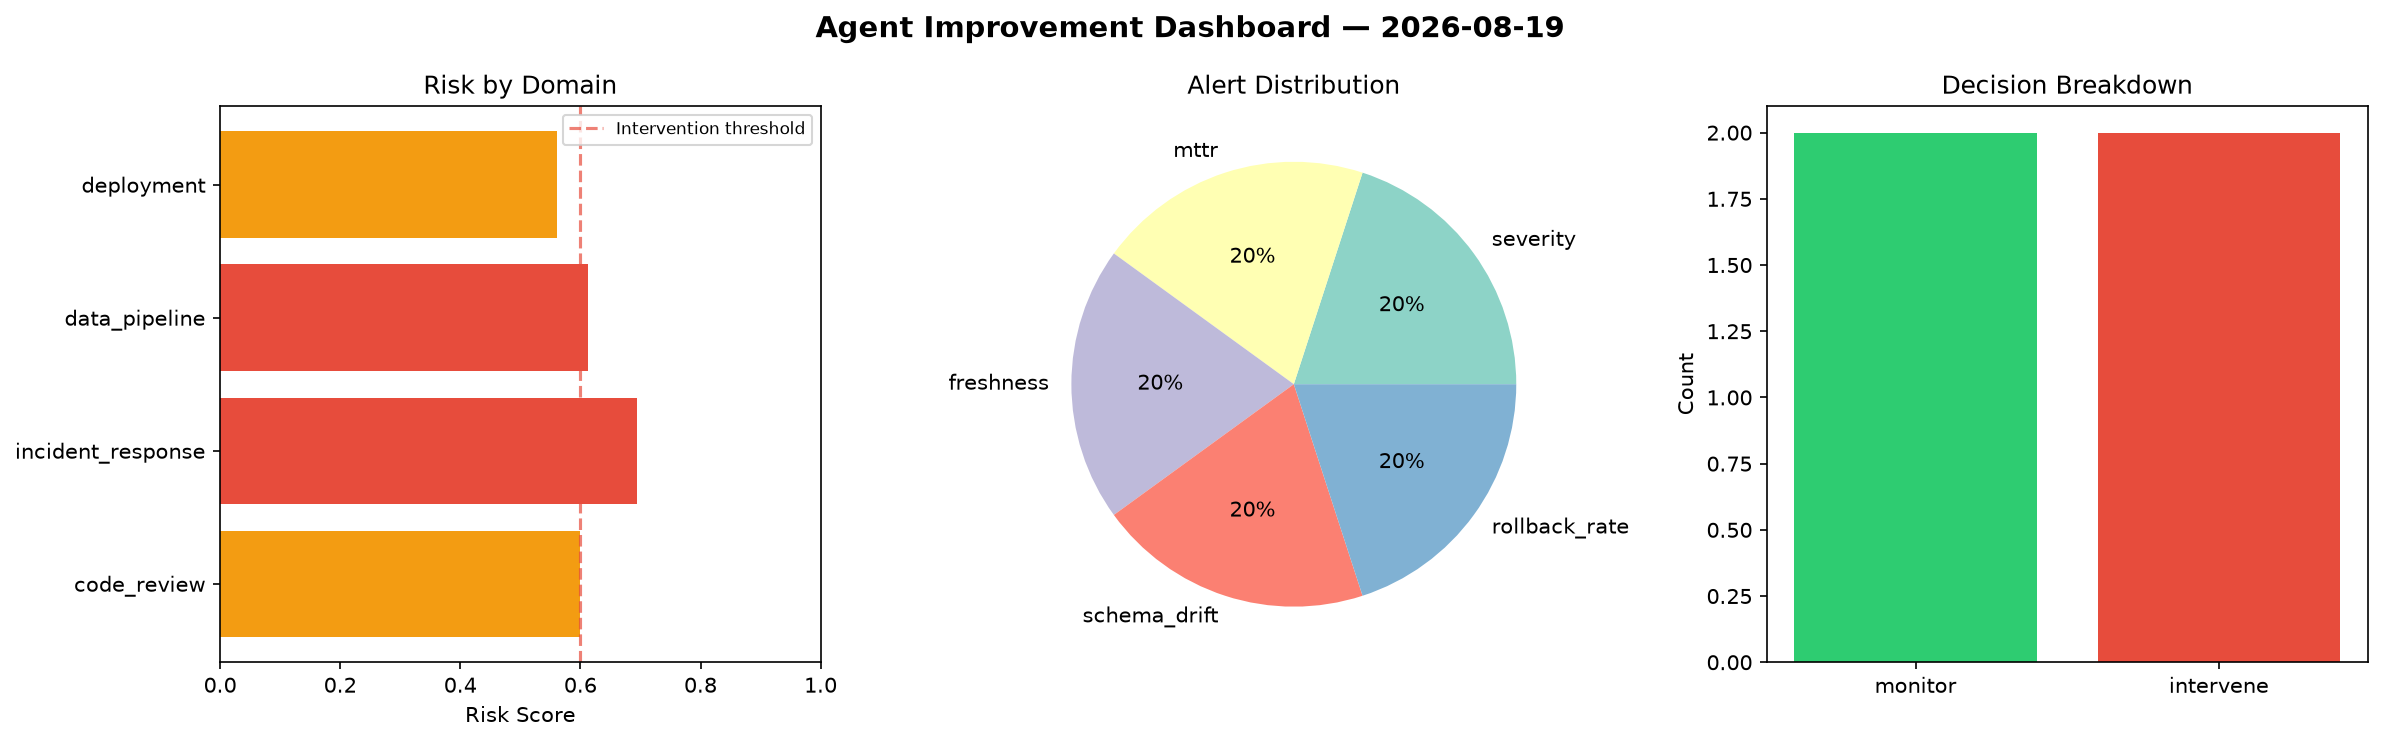
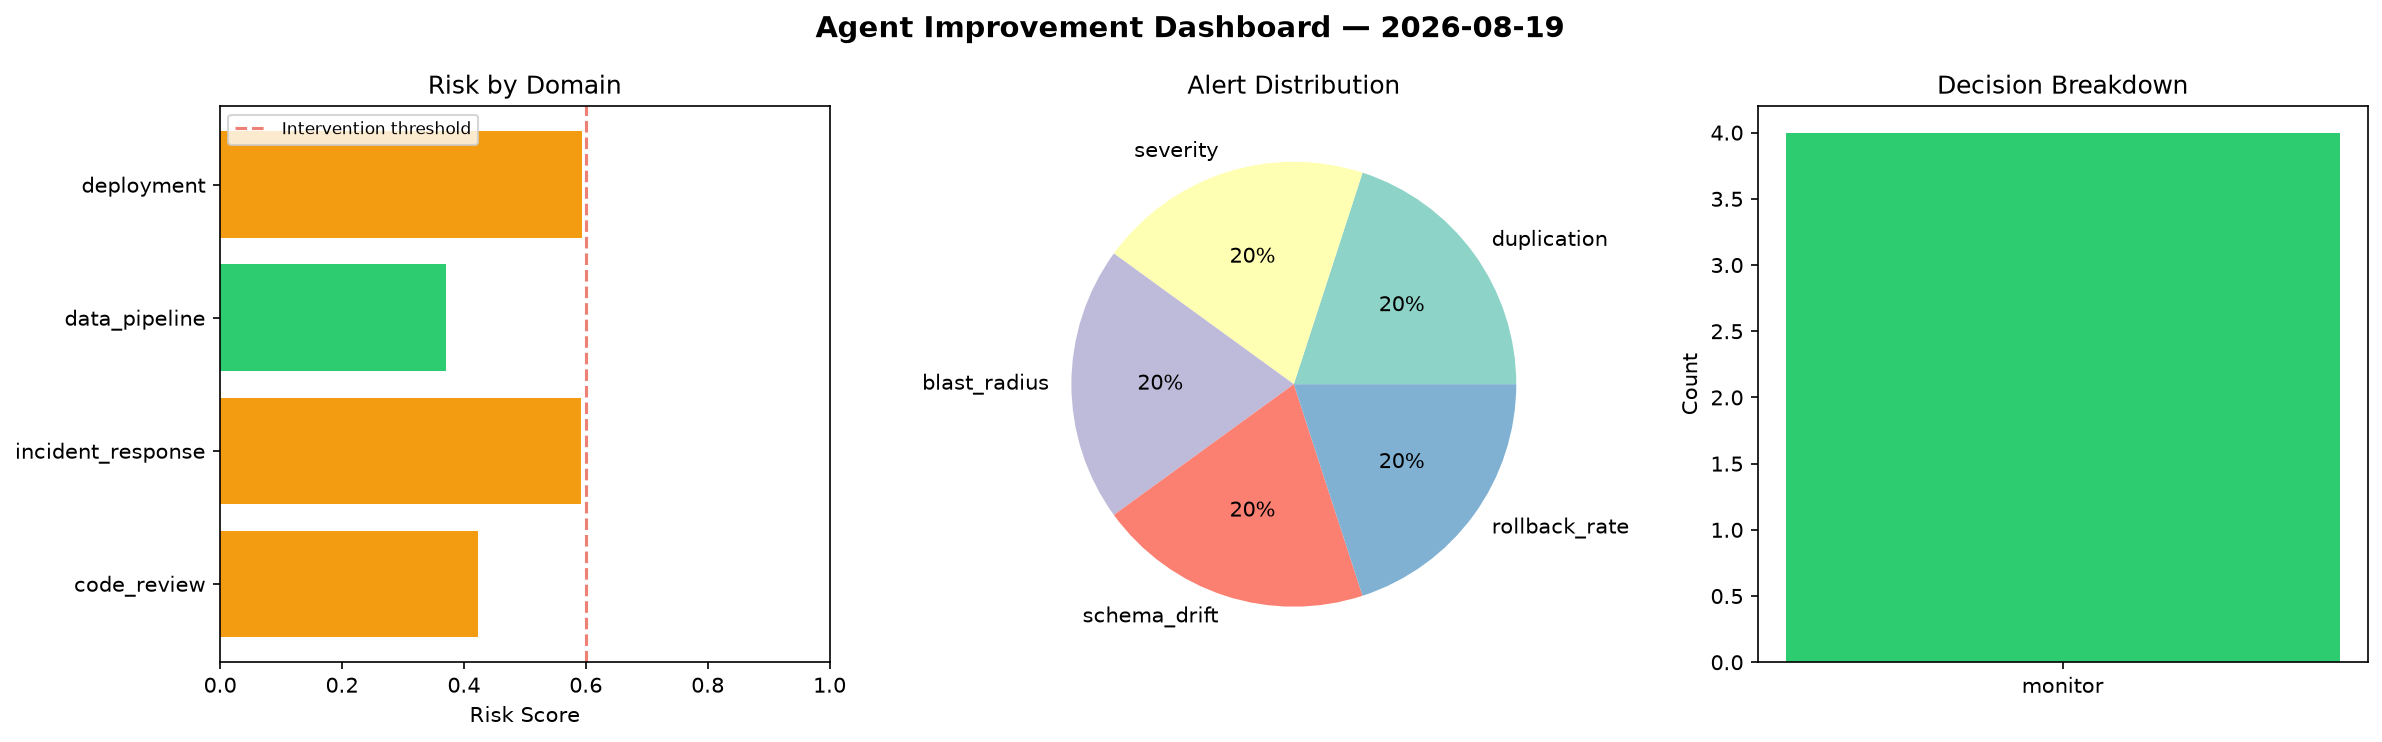
agent-improvement: daily cycle 2026-08-19T20:43

diff --git a/logs/2026-08-19.md b/logs/2026-08-19.md
@@ -1,6 +1,6 @@
 # Agent Improvement Report — 2026-08-19
 
-**Cycle ID:** `669658dc` | **Avg Risk:** 0.6162 | **Interventions:** 2/4
+**Cycle ID:** `5d278e15` | **Avg Risk:** 0.4948 | **Interventions:** 0/4
 
 ![Dashboard](2026-08-19_dashboard.png)
 
@@ -10,18 +10,18 @@
 
 | Domain | Risk Score | Decision | Alerts |
 |--------|-----------|----------|--------|
-| code_review | 0.5985 | monitor | none |
-| incident_response | 0.6937 | intervene | severity, mttr |
-| data_pipeline | 0.6119 | intervene | freshness, schema_drift |
-| deployment | 0.5606 | monitor | rollback_rate |
+| code_review | 0.423 | monitor | duplication |
+| incident_response | 0.5918 | monitor | severity, blast_radius |
+| data_pipeline | 0.3709 | monitor | schema_drift |
+| deployment | 0.5933 | monitor | rollback_rate |
 
 ## Delta vs Yesterday
 
 | Domain | Today | Yesterday | Change |
 |--------|-------|-----------|--------|
-| code_review | 0.5985 | 0.5808 | 📈 3.0% |
-| incident_response | 0.6937 | 0.2387 | 📈 190.6% |
-| data_pipeline | 0.6119 | 0.4437 | 📈 37.9% |
-| deployment | 0.5606 | 0.5747 | 📉 -2.5% |
+| code_review | 0.423 | 0.5808 | 📉 -27.2% |
+| incident_response | 0.5918 | 0.2387 | 📈 147.9% |
+| data_pipeline | 0.3709 | 0.4437 | 📉 -16.4% |
+| deployment | 0.5933 | 0.5747 | 📈 3.2% |
 
-**Refinement:** `{'adjustment': 'maintain', 'trend': 'improving', 'window': 4}`
+**Refinement:** `{'adjustment': 'tighten_thresholds', 'trend': 'degrading', 'window': 4}`
